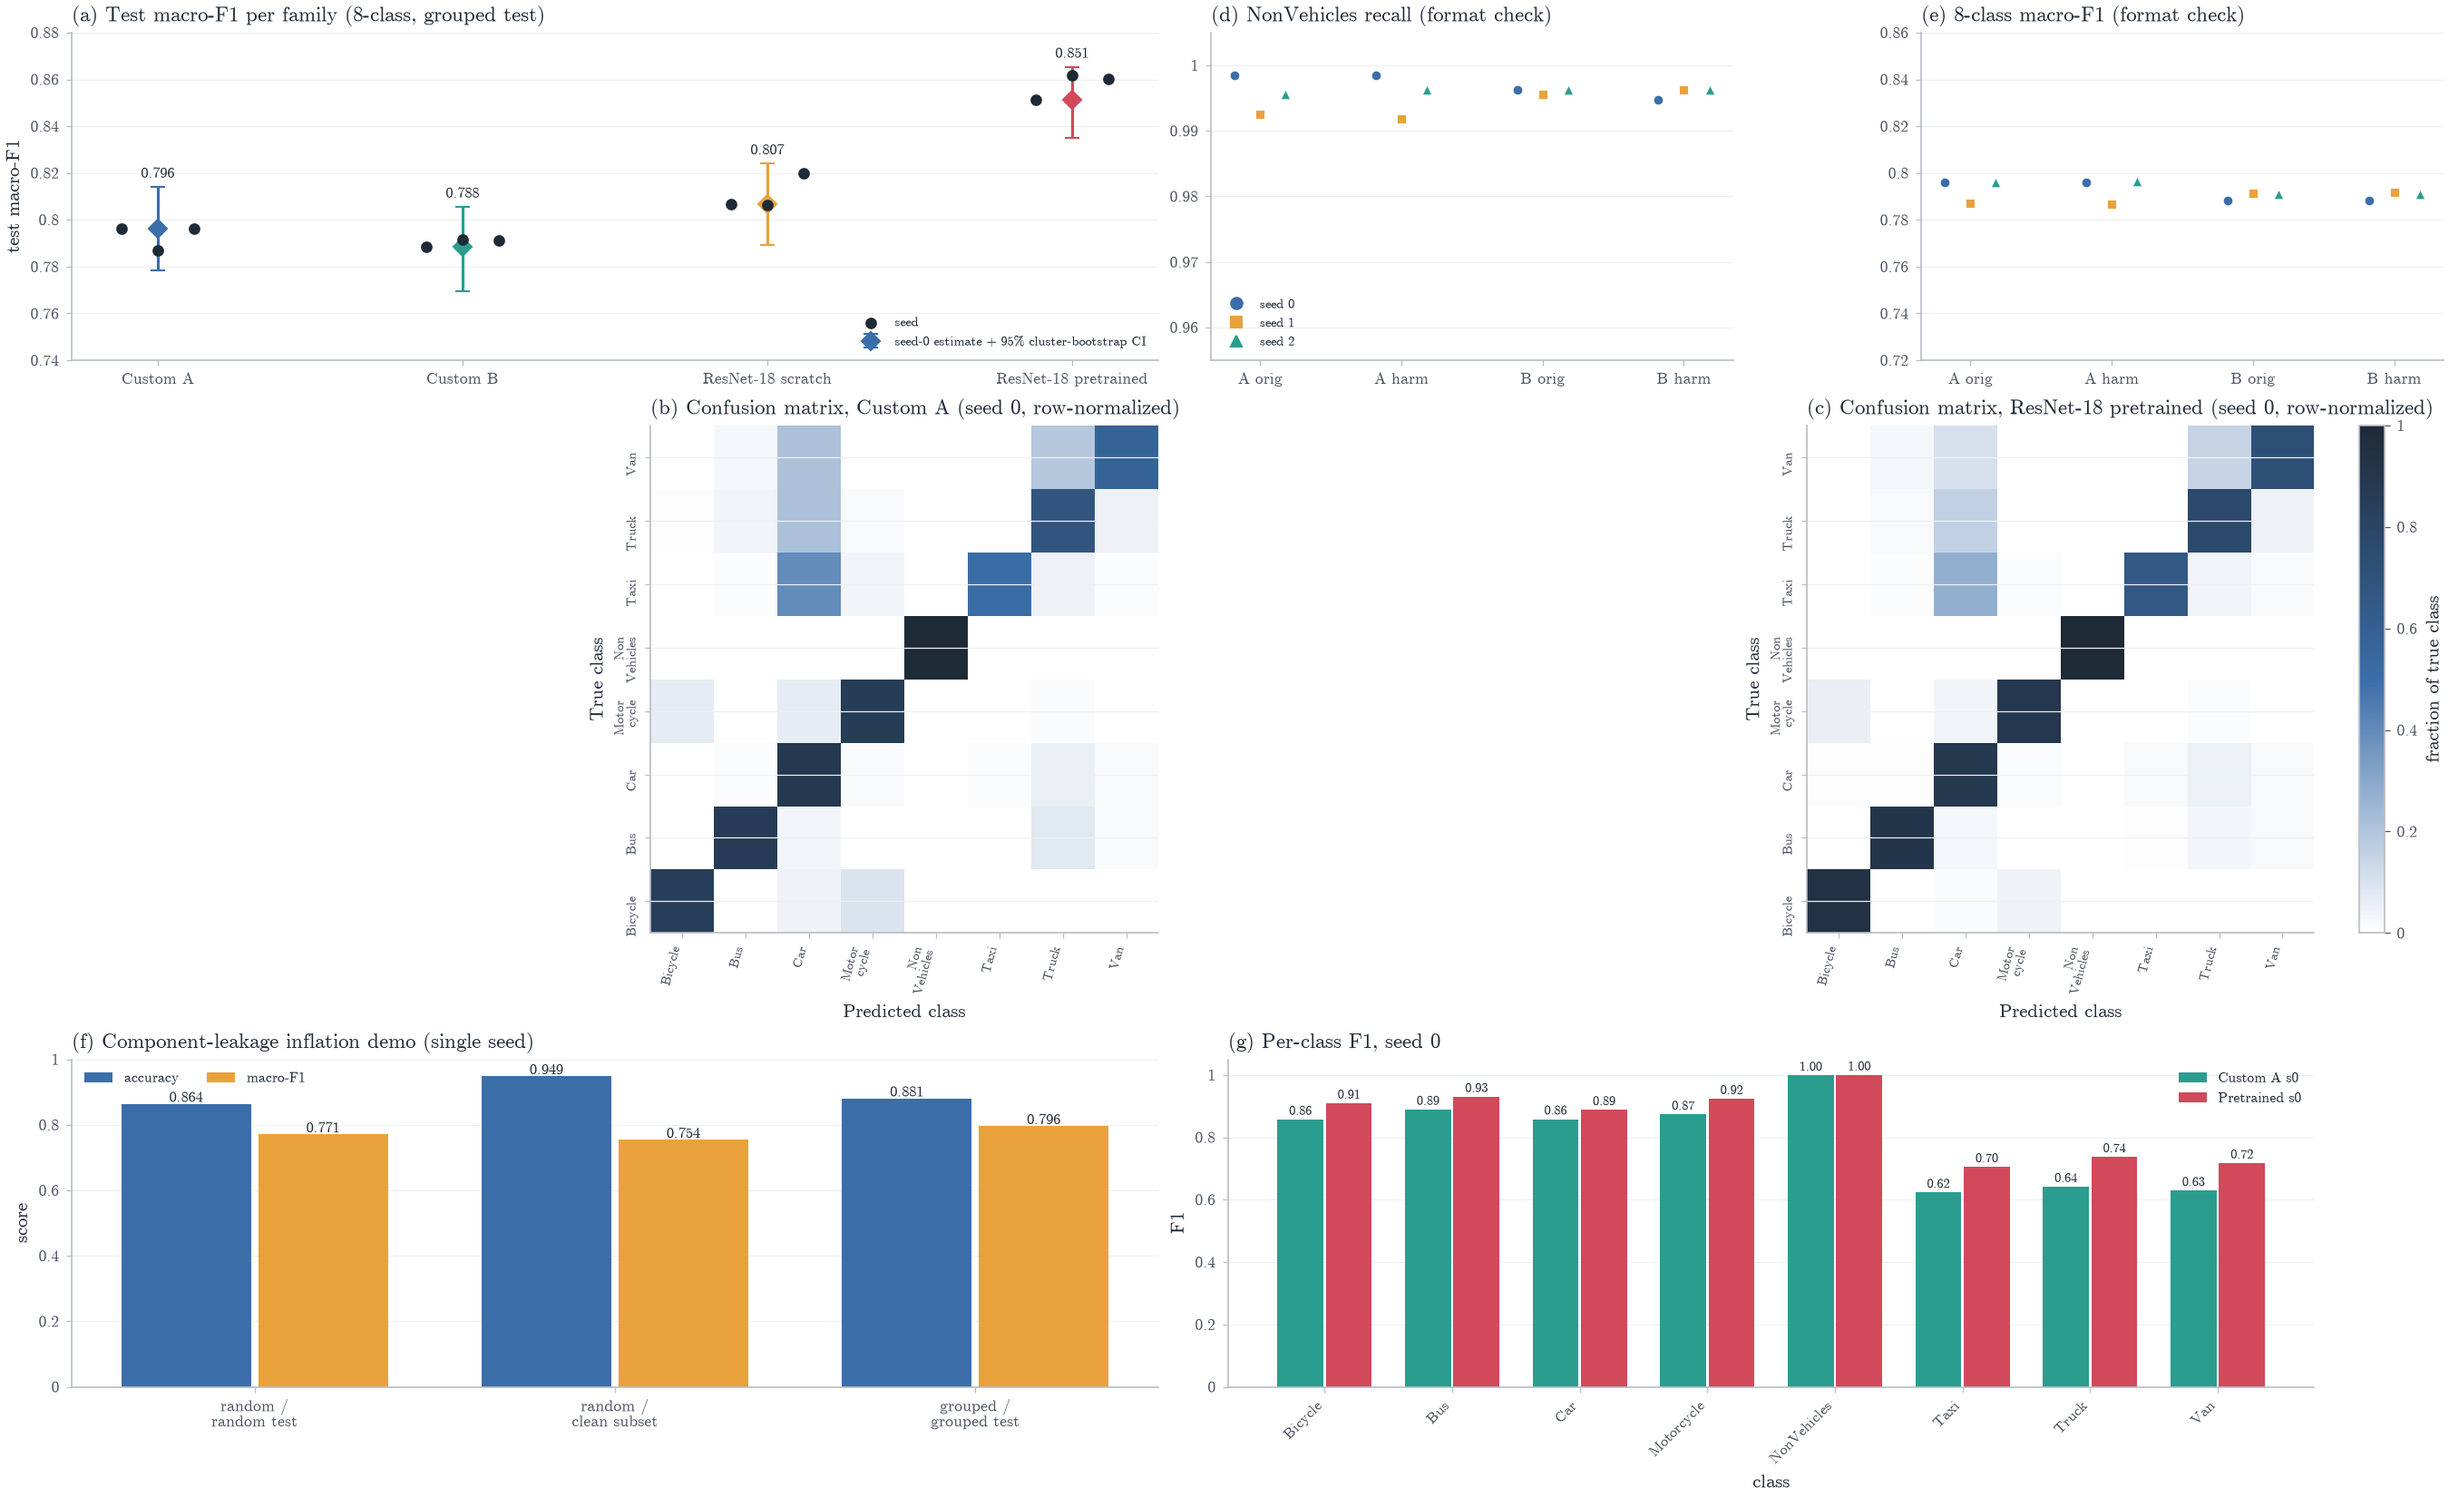
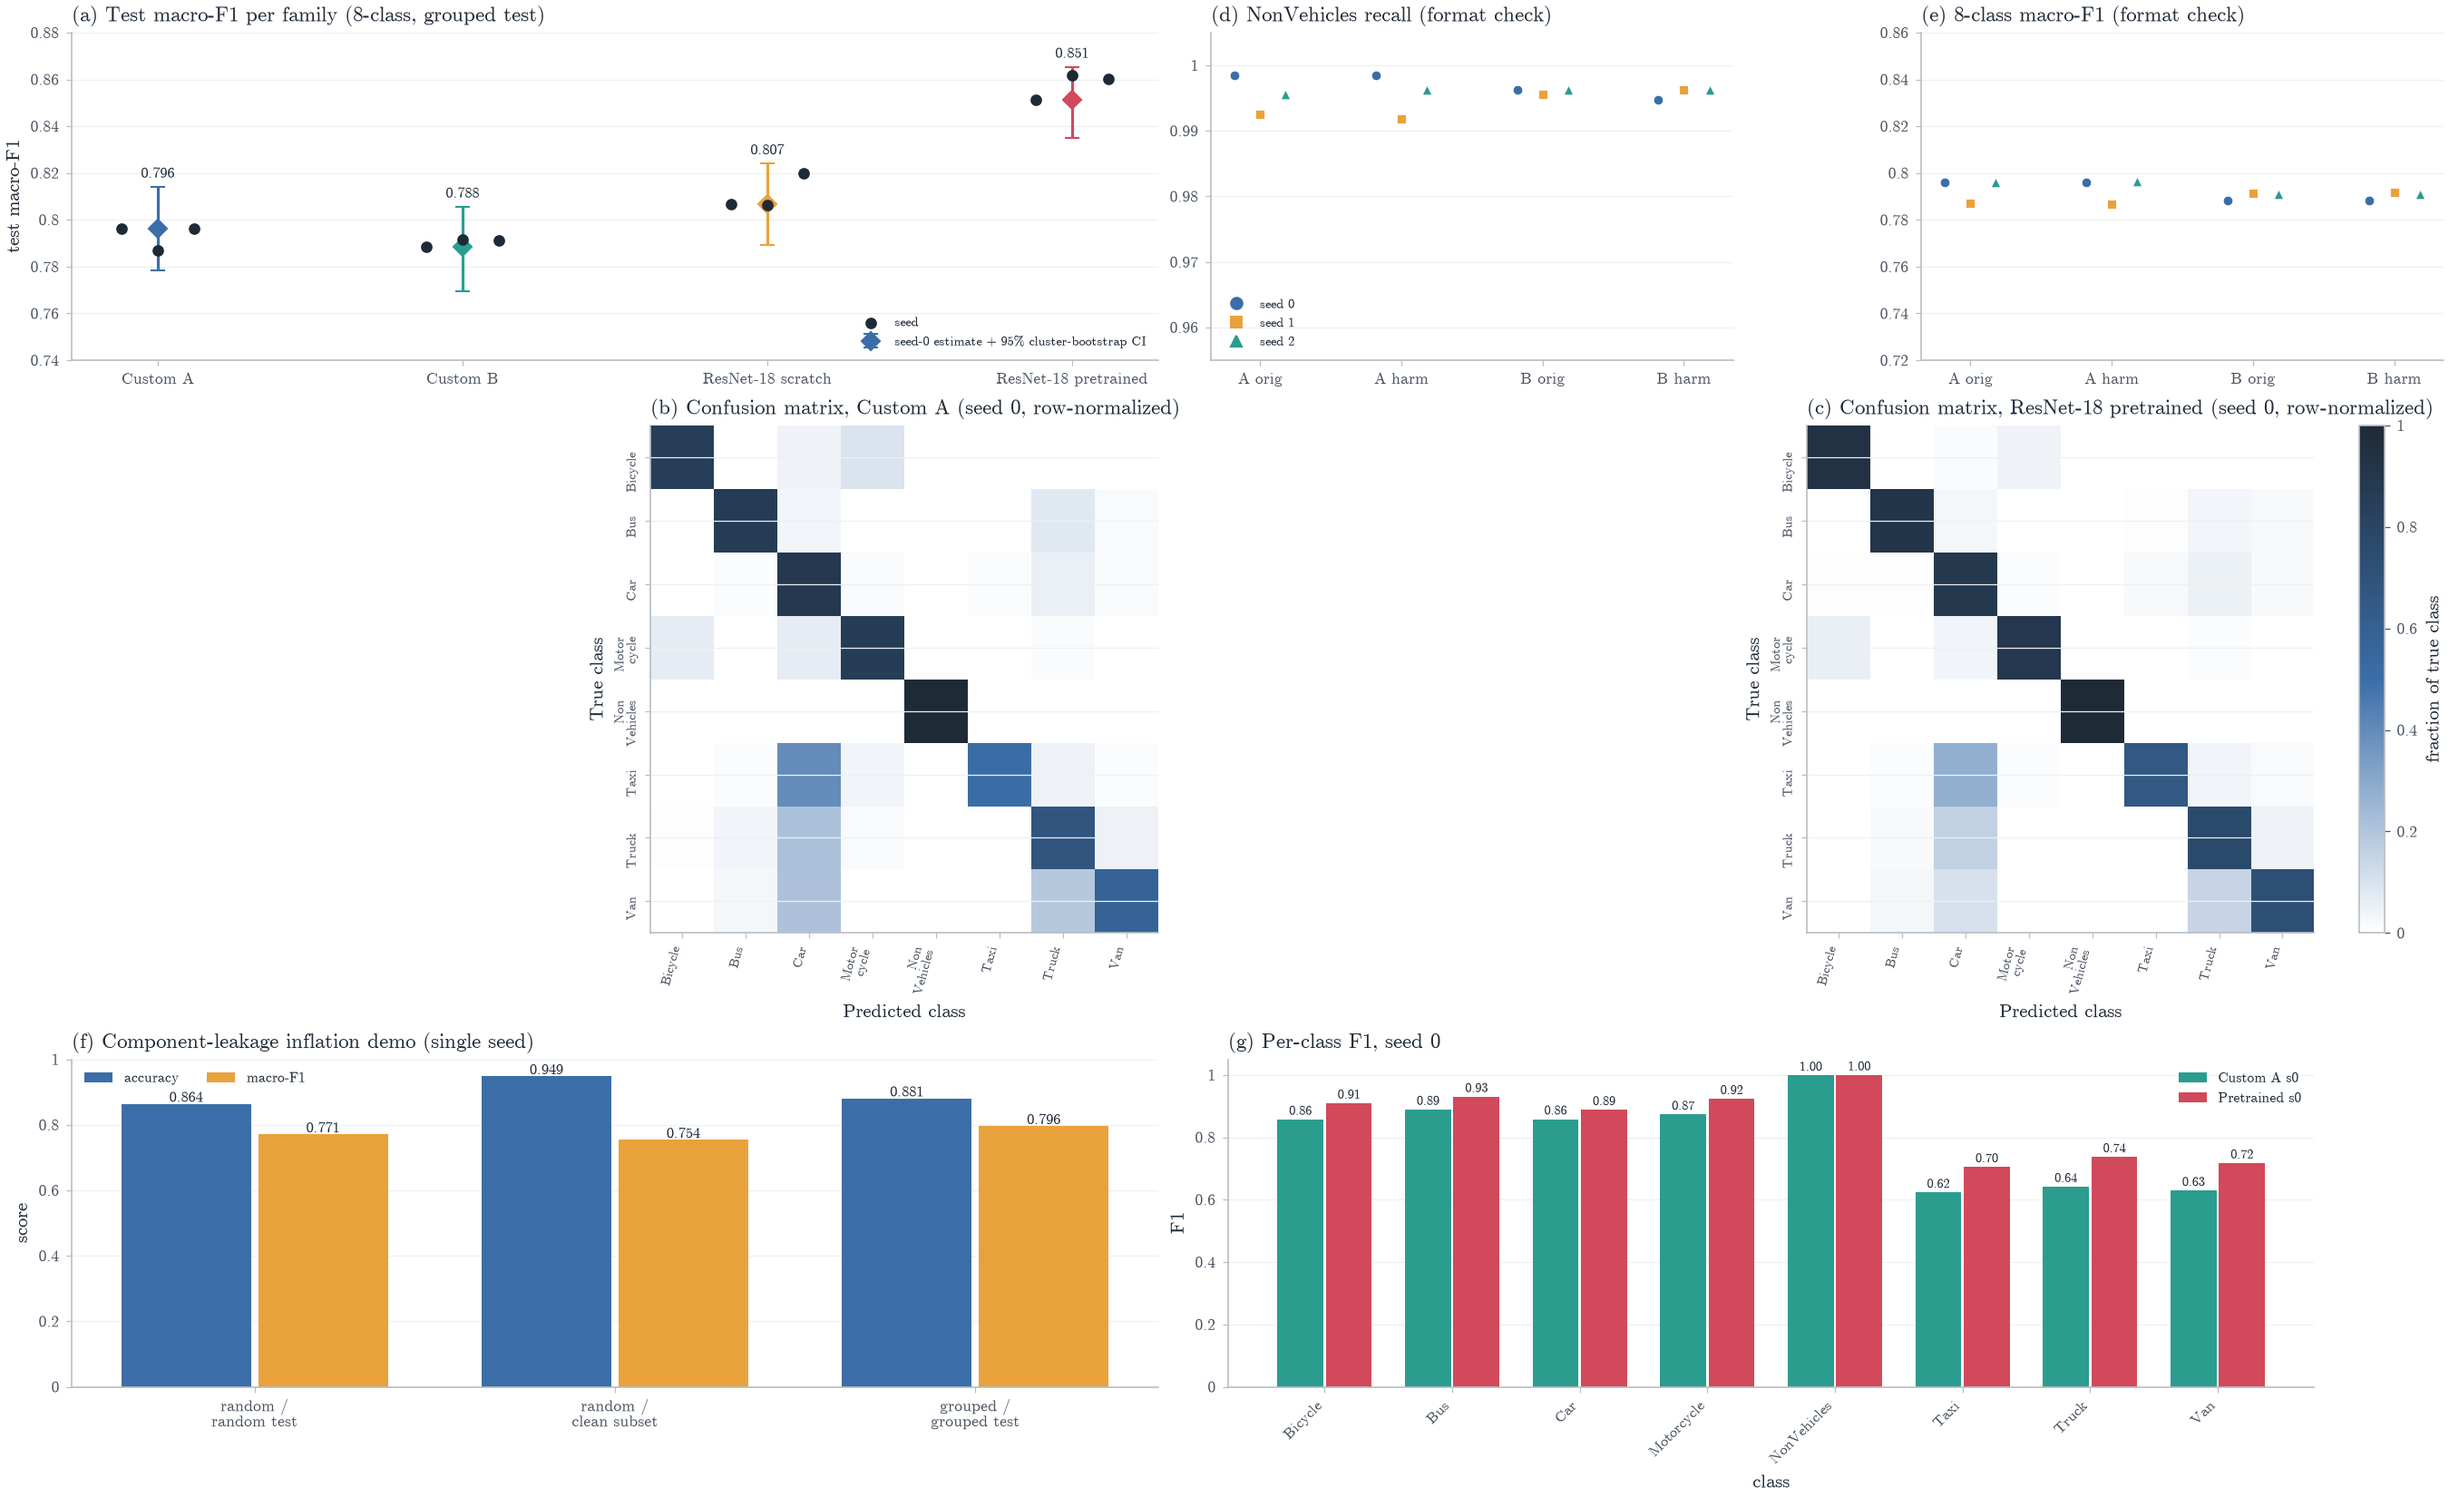
fix(figure): align confusion matrix rows with class order
Switch the confusion matrices to upper origin so the true-class axis reads top to bottom in the same order as the predicted axis. Add the shared render checks.

Changed region(s): [[0.2489, 0.2782, 0.4978, 0.6491], [0.7156, 0.2782, 0.9644, 0.6491], [0.7156, 0.4636, 0.7467, 0.4945]]

diff --git a/scripts/render_figure.py b/scripts/render_figure.py
@@ -21,6 +21,7 @@ matplotlib.use("Agg")
 import matplotlib.pyplot as plt
 import matplotlib.ticker as mticker
 import numpy as np
+from matplotlib.collections import PathCollection
 from matplotlib.colors import LinearSegmentedColormap
 from matplotlib.lines import Line2D
 
@@ -171,6 +172,8 @@ def verify_categories() -> None:
 def _all_texts(fig: plt.Figure) -> list[plt.Text]:
     items = []
     for ax in fig.axes:
+        if not ax.axison:
+            continue
         cand = [ax.title, ax.xaxis.label, ax.yaxis.label]
         cand += list(ax.texts)
         for axis in (ax.xaxis, ax.yaxis):
@@ -372,6 +375,175 @@ def check_legend_pixels(fig: plt.Figure, path: Path) -> list[str]:
     return out
 
 
+
+def check_empty_axes(fig: plt.Figure) -> list[str]:
+    """Every axes must contain at least one plotted artist."""
+    fig.canvas.draw()
+    fig.canvas.draw()
+    out = []
+    for i, ax in enumerate(fig.axes):
+        if not ax.axison:
+            continue
+        artists = (len(ax.lines) + len(ax.collections)
+                   + len(ax.patches) + len(ax.images))
+        if artists == 0:
+            out.append(f"axes {i} has no plotted artists")
+    return out
+
+
+def check_offscale(fig: plt.Figure) -> list[str]:
+    """Every data point must lie inside its axes limits."""
+    fig.canvas.draw()
+    fig.canvas.draw()
+    out = []
+    eps = 1e-9
+    for i, ax in enumerate(fig.axes):
+        x0, x1 = ax.get_xlim()
+        y0, y1 = ax.get_ylim()
+        for coll in ax.collections:
+            if (coll.get_offset_transform() != ax.transData
+                    or not isinstance(coll, PathCollection)):
+                continue
+            offs = coll.get_offsets()
+            if len(offs) == 0 or len(offs) > 20000:
+                continue
+            xs, ys = offs[:, 0], offs[:, 1]
+            bad = int(
+                ((xs < x0 - eps) | (xs > x1 + eps)
+                 | (ys < y0 - eps) | (ys > y1 + eps)).sum()
+            )
+            if bad:
+                out.append(
+                    f"axes {i}: {bad} collection points outside limits"
+                )
+        for line in ax.lines:
+            if line.get_transform() != ax.transData:
+                continue
+            try:
+                pts = line.get_path().vertices
+            except Exception:
+                continue
+            if len(pts) == 0:
+                continue
+            xs, ys = pts[:, 0], pts[:, 1]
+            bad = int(
+                ((xs < x0 - eps) | (xs > x1 + eps)
+                 | (ys < y0 - eps) | (ys > y1 + eps)).sum()
+            )
+            if bad:
+                out.append(
+                    f"axes {i}: {bad} line vertices outside limits"
+                )
+        ren = fig.canvas.get_renderer()
+        bb = ax.get_window_extent(ren)
+        clipped = 0
+        for patch in ax.patches:
+            try:
+                pb = patch.get_window_extent(ren)
+            except Exception:
+                continue
+            if (pb.x0 < bb.x0 - 1 or pb.x1 > bb.x1 + 1
+                    or pb.y0 < bb.y0 - 1 or pb.y1 > bb.y1 + 1):
+                clipped += 1
+        if clipped:
+            out.append(f"axes {i}: {clipped} patches past axes bounds")
+    return out
+
+
+def check_clipped_markers(fig: plt.Figure) -> list[str]:
+    """No marker may extend past the axes bounds."""
+    fig.canvas.draw()
+    fig.canvas.draw()
+    ren = fig.canvas.get_renderer()
+    out = []
+    for i, ax in enumerate(fig.axes):
+        bb = ax.get_window_extent(ren)
+        px_per_pt = fig.dpi / 72.0
+        flagged = False
+        for coll in ax.collections:
+            if (coll.get_offset_transform() != ax.transData or flagged
+                    or not isinstance(coll, PathCollection)):
+                continue
+            offs = coll.get_offsets()
+            if len(offs) == 0:
+                continue
+            try:
+                sizes = np.asarray(coll.get_sizes(), dtype=float)
+            except Exception:
+                sizes = np.array([])
+            if len(sizes) == len(offs) and len(sizes):
+                radii_px = np.sqrt(sizes) / 2.0 * px_per_pt
+            elif len(sizes):
+                radii_px = np.full(
+                    len(offs), np.sqrt(sizes.max()) / 2.0 * px_per_pt
+                )
+            else:
+                radii_px = np.full(len(offs), 3.0 * px_per_pt)
+            pts = ax.transData.transform(offs)
+            hit = (
+                (pts[:, 0] - radii_px < bb.x0)
+                | (pts[:, 0] + radii_px > bb.x1)
+                | (pts[:, 1] - radii_px < bb.y0)
+                | (pts[:, 1] + radii_px > bb.y1)
+            ).any()
+            if hit:
+                out.append(f"axes {i}: marker extends past axes bounds")
+                flagged = True
+        for line in ax.lines:
+            if flagged:
+                break
+            if line.get_transform() != ax.transData:
+                continue
+            marker = line.get_marker()
+            if marker in (None, "", " ", "None", "none", "|", "_"):
+                continue
+            ms = line.get_markersize()
+            radius_px = (ms / 2.0) * px_per_pt
+            pts = ax.transData.transform(line.get_path().vertices)
+            if len(pts) == 0:
+                continue
+            hit = (
+                (pts[:, 0] - radius_px < bb.x0)
+                | (pts[:, 0] + radius_px > bb.x1)
+                | (pts[:, 1] - radius_px < bb.y0)
+                | (pts[:, 1] + radius_px > bb.y1)
+            ).any()
+            if hit:
+                out.append(f"axes {i}: marker extends past axes bounds")
+                flagged = True
+    return out
+
+
+def check_coincident_lines(fig: plt.Figure) -> list[str]:
+    """No two line series may be fully coincident."""
+    fig.canvas.draw()
+    fig.canvas.draw()
+    out = []
+    for i, ax in enumerate(fig.axes):
+        lines = [
+            ln for ln in ax.lines
+            if ln.get_transform() == ax.transData
+        ]
+        seen = False
+        for a in range(len(lines)):
+            if seen:
+                break
+            for b in range(a + 1, len(lines)):
+                pa = lines[a].get_path().vertices
+                pb = lines[b].get_path().vertices
+                if len(pa) != len(pb) or len(pa) == 0:
+                    continue
+                if np.allclose(pa, pb, atol=1e-6, equal_nan=True):
+                    out.append(
+                        f"axes {i}: coincident line series "
+                        f"({lines[a].get_label()!r}, "
+                        f"{lines[b].get_label()!r})"
+                    )
+                    seen = True
+                    break
+    return out
+
+
 def finish(fig: plt.Figure, out: Path) -> None:
     """Verify categorical labels, save, then fail on any check violation."""
     fig.canvas.draw()
@@ -383,6 +555,10 @@ def finish(fig: plt.Figure, out: Path) -> None:
     problems += check_legend_data(fig)
     problems += check_annotation_data(fig)
     problems += check_legend_pixels(fig, out)
+    problems += check_empty_axes(fig)
+    problems += check_offscale(fig)
+    problems += check_clipped_markers(fig)
+    problems += check_coincident_lines(fig)
     plt.close(fig)
     if problems:
         for p in problems[:30]:
@@ -428,7 +604,7 @@ def _confusion(ax: plt.Axes, cm: np.ndarray, letter: str, title: str,
     ]
     pos = np.arange(len(names))
     im = ax.imshow(
-        cm / rs, cmap=SEQUENTIAL, aspect="equal", origin="lower",
+        cm / rs, cmap=SEQUENTIAL, aspect="equal", origin="upper",
         vmin=0.0, vmax=1.0, interpolation="nearest",
     )
     style(ax, letter, title, xlabel="Predicted class",
